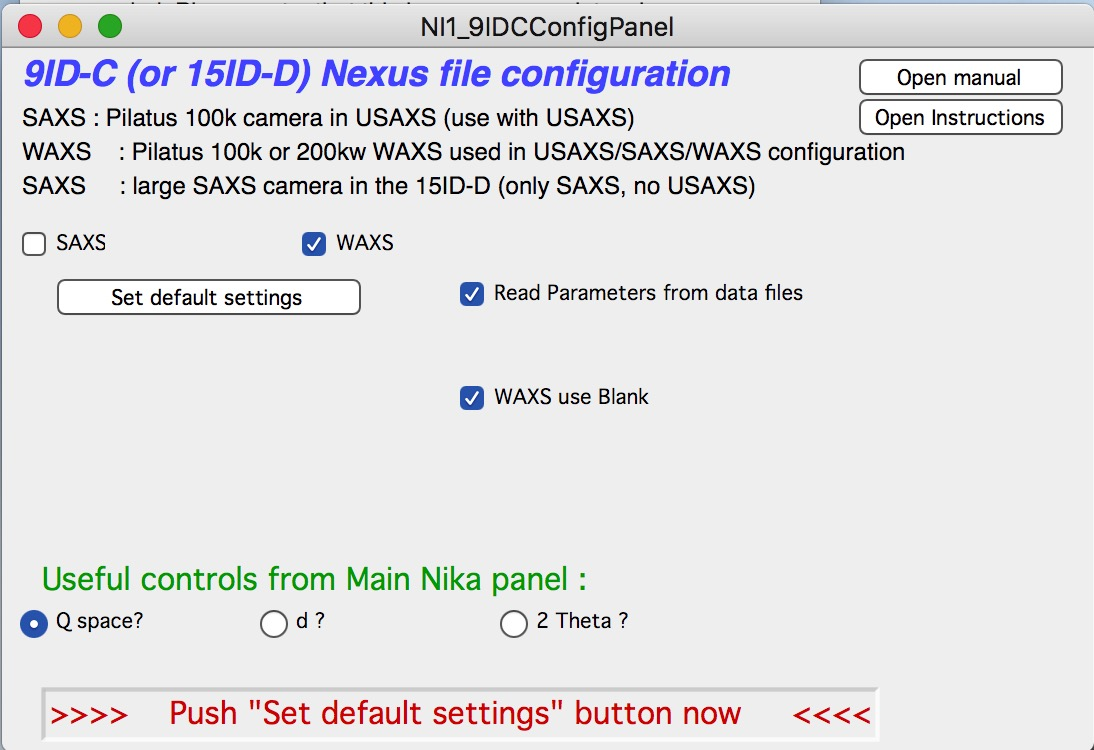
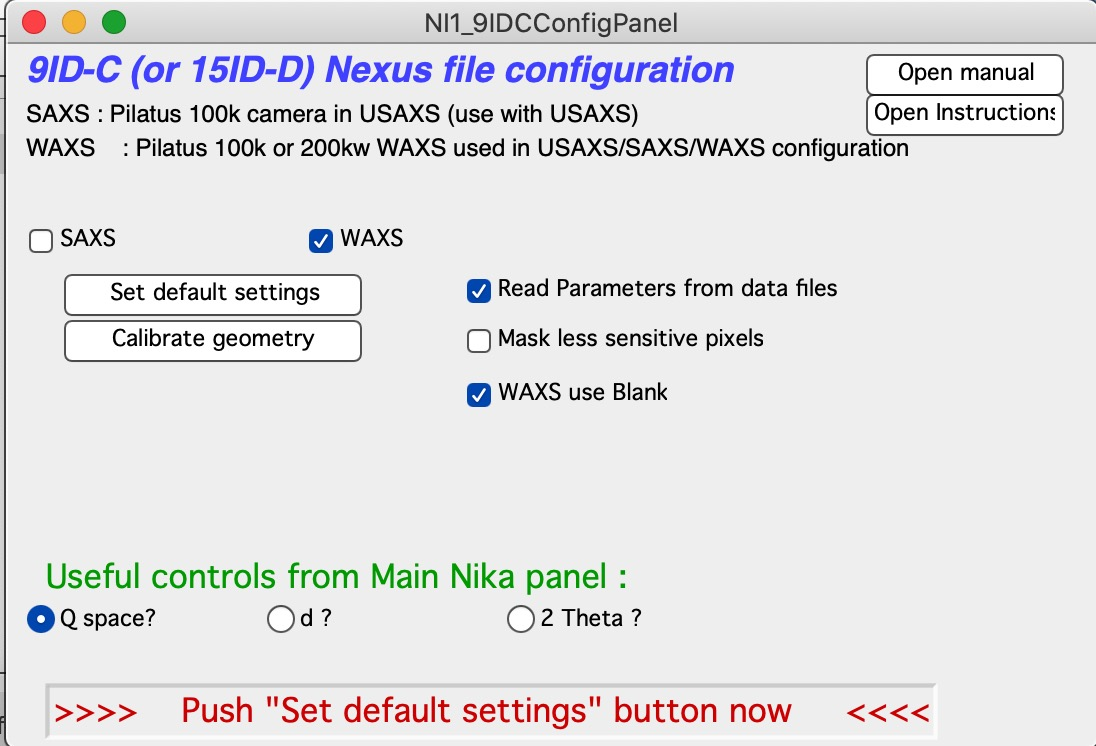
USAXS data reduction corrections
Add Pixel sensitivity mask.

diff --git a/docs/source/Indra/WAXSDataReduction.rst b/docs/source/Indra/WAXSDataReduction.rst
@@ -16,12 +16,6 @@ When you collect data on USAXS instrument, your data are saved in folders relate
         :align: center
         :width: 480px
 
-After you reduce data from USAXS instrument, you will have in your Igor experiment data arranged in data folders also - in this case you will have USAXS data in root\:WAXS\:Samplename.
-To see inside of the current Igor experiment, use DataBrowser (ctrl-B or cmd-B).
-
-.. image:: media/USAXSComputerDataArrangement.jpg
-        :align: center
-        :width: 480px
 
 Reduced WAXS data arrangement
 =============================
@@ -62,9 +56,10 @@ Nika will open selected file and read from this file all calibration values we h
 
 1.  All parameters will be read and inserted in proper Nika fields.
 2.  Nika will open the selected image and display it.
-3.  Nika will set proper selection of checkboxes for calibration and insert proper names of lookup functions, which find/calculate for each sample thickness, transmission, and normalization values. Nika will create default Mask.
-4.  **IMPORTANT** - by default Nika is set to use Q for x-axis. This is useful if you want to merge USAXS+SAXS+WAXS data together. If you want, you can use two-theta or d spacing for x-axis. Note, that for Diffraction tool in Irena this is not important (it converts any x-axis to two-theta) and for export to GSAS-II compatible file also (it also converts to two-theta).
-5.  Nika will display for user the tab, where user needs to find the correct "Blank" - aka: "Empty" - for the samples user wants to reduce.
+3.  Nika will set proper selection of checkboxes for calibration and insert proper names of lookup functions, which find/calculate for each sample thickness, transmission, and normalization values.
+4.  **MASK:** Depending on Checkbox "Mask Less sensitive pixels" Nika will create one of two masks - in unchecked, default Mask covering only edges and the gap between the tiles. If checked, Nika will also cover pixels between the chips of the detector which are typically slightly lower sensitivity (like 1% or so). Usually these less sensitive points have little impact, but sometimes they are important. :ref:`see <reduce_WAXS_data_mask>`.
+5.  **IMPORTANT** - by default Nika is set to use Q for x-axis. This is useful if you want to merge USAXS+SAXS+WAXS data together. If you want, you can use two-theta or d spacing for x-axis. Note, that for Diffraction tool in Irena this is not important (it converts any x-axis to two-theta) and for export to GSAS-II compatible file also (it also converts to two-theta).
+6.  Nika will display for user the tab, where user needs to find the correct "Blank" - aka: "Empty" - for the samples user wants to reduce.
 
 Next step is to select the proper Blank - if needed, right click in the panel and select "Match Blank" or whatever else needed. Either double click on the file or select the file and click "Load Empty".
 
@@ -84,8 +79,30 @@ Here is example of Sample and Blank loaded and displayed side-by-side.
 
 Next is simply - select sample or samples which should be processed and click on button "Process images". Nika will process all selected files. .
 
-
 .. Figure:: media/WAXSProcessedDataImg.jpg
         :align: left
         :width: 700px
+        :Figwidth: 820px
+
+
+.. _reduce_WAXS_data_mask:
+
+Impact of different Mask selection
+==================================
+
+Depending on data dynamic range, noise and overall intensity, sometimes we can see impact of pixels at the edges of chips, which have been fused together to form the tiles of the detector. This is common for all Pilatus detectors after some time and at some X-ray energies. Dectris does calibrate their detector sensitivity at specific (typically X-ray tube) energies, but over time and at other energies, this does not work as well. In these cases we can trade number of pixels for quality of data and mask of these lower intensity pixels. Unless we could, somehow, create flat field. Following image shows data without and with masking of less sensitive pixels:
+
+
+.. Figure:: media/WAXSimpactOfLessSensitivePixels.jpg
+        :align: left
+        :width: 700px
+        :Figwidth: 820px
+
+
+and here is how the mask looks like:
+
+
+.. Figure:: media/WAXSMaskedLessSensitivePixels.jpg
+        :align: left
+        :width: 400px
         :Figwidth: 820px

diff --git a/docs/source/Indra/SAXSDataReduction.rst b/docs/source/Indra/SAXSDataReduction.rst
@@ -60,9 +60,10 @@ Nika will open selected file and read from this file all calibration values we h
 1.  All parameters will be read and inserted in proper Nika fields.
 2.  Nika will scan for existing USAXS data and if it finds the data (it will pick random USAXS folder) it will look if there are desmeared data (DSM_Int etc.) or slit smeared data (SMR_Int). If there are desmeared data, it will switch off Slit smearing (uncheck the checkbox on the panel). If it find only slit smeared data, it will check this checkbox to generate appropriate (slit smeared) SAXS data. In any case, if it finds any USAXS data, it will insert proper slit length in the proper field.
 3.  Nika will open the selected image and display it.
-4.  Nika will set proper selection of checkboxes for calibration and insert proper names of lookup functions, which find/calculate for each sample thickness, transmission, and normalization values. Nika will create default Mask. 
-5.  **IMPORTANT** - by default Nika is set to produce 120 Q bins, log-q spaced (reduction from about 500 points which it would have with max q resolution). This is correct for small-angle scattering where it reduces noise at high-q, but incorrect if you have diffraction peaks in this Q range and need to have high resolution. If that is the case, select "Max num points?" checkbox.
-6.  Nika will display for user the tab, where user needs to find the correct "Blank" - aka: "Empty" - for the samples user wants to reduce.
+4.  Nika will set proper selection of checkboxes for calibration and insert proper names of lookup functions, which find/calculate for each sample thickness, transmission, and normalization values.
+5.  **MASK:** Depending on Checkbox "Mask Less sensitive pixels" Nika will create one of two masks - in unchecked, default Mask covering edges and beamstop bar. If checked, Nika will also cover pixels between the chips of the detector which are typically slightly lower sensitivity (like 1% or so). Usually these less sensitive points have little impact, but sometimes they are important. See explanation and graph in WAXS data reduction :ref:`here <reduce_WAXS_data_mask>`.  
+6.  **IMPORTANT** - by default Nika is set to produce 120 Q bins, log-q spaced (reduction from about 500 points which it would have with max q resolution). This is correct for small-angle scattering where it reduces noise at high-q, but incorrect if you have diffraction peaks in this Q range and need to have high resolution. If that is the case, select "Max num points?" checkbox.
+7.  Nika will display for user the tab, where user needs to find the correct "Blank" - aka: "Empty" - for the samples user wants to reduce.
 
 Next step is to select the proper Blank - if needed, right click in the panel and select "Match Blank" or whatever else needed. Either double click on the file or select the file and click "Load Empty".
 
